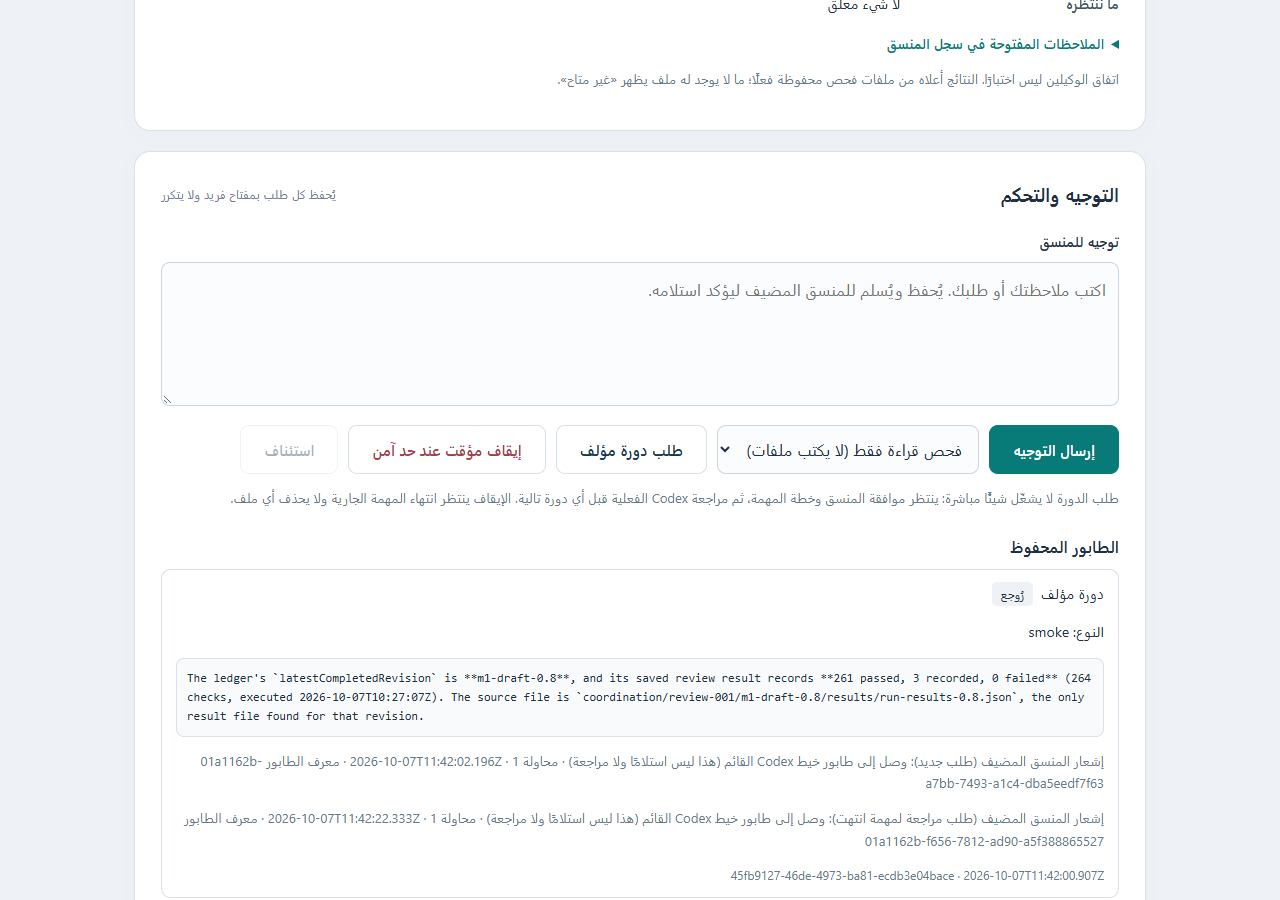
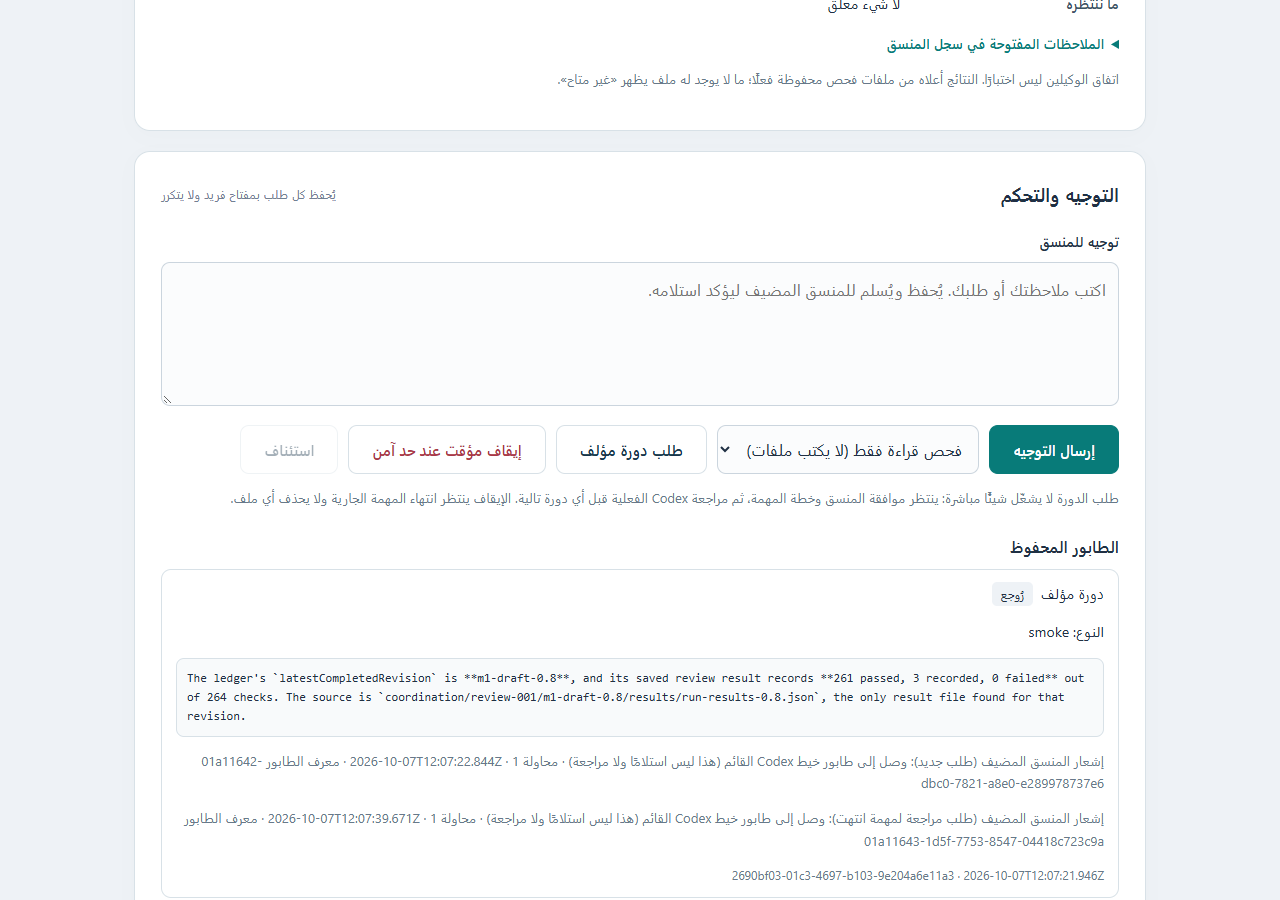
Verify all 63 coordinator tests and the final real browser cycle

diff --git a/development/STATUS-AR.md b/development/STATUS-AR.md
@@ -41,6 +41,6 @@ Claude مسؤول عن التأليف والتعديلات؛ Codex يراجع و
 
 ## أداة المتابعة المحلية — Issue #3
 
-أُنجزت أداة عربية محلية في [Draft PR #4](https://github.com/raedrasheed/Proof-of-Collaboration/pull/4)، اعتمادًا على PR #2 دون تغيير مواصفات M1. Claude ألّف التعديلات وCodex راجعها مستقلًا: 59 اختبار وحدة ناجحًا، ودورة Chrome/Claude/Codex حقيقية، وإخفاق CLI مقصود ثم استعادة وإعادة صريحة ناجحة. بقيت بصمات 139 ملفًا والسجل الأصلي كما كانت؛ قرارات المالك ما زالت مفتوحة.
+أُنجزت أداة عربية محلية في [Draft PR #4](https://github.com/raedrasheed/Proof-of-Collaboration/pull/4)، اعتمادًا على PR #2 دون تغيير مواصفات M1. Claude ألّف التعديلات وCodex راجعها مستقلًا: 63 اختبار وحدة ناجحًا، و11 فحصًا في دورة Chrome/Claude/Codex حقيقية، وإخفاق CLI مقصود ثم استعادة وإعادة صريحة ناجحة. بقيت بصمات 139 ملفًا والسجل الأصلي كما كانت؛ قرارات المالك ما زالت مفتوحة.
 
 النتائج والحدود والصور في [دليل مراجعة الأداة](reviews/ISSUE-3-UI-REVIEW-AR.md)، والتشغيل بأمر واحد في [التعليمات العربية](../tools/local-coordinator/README-AR.md). الخدمة محلية، وليست GitHub Pages أو حلقة وكلاء ثانية. لا دمج أو نشر أو تنفيذ شبكة.
